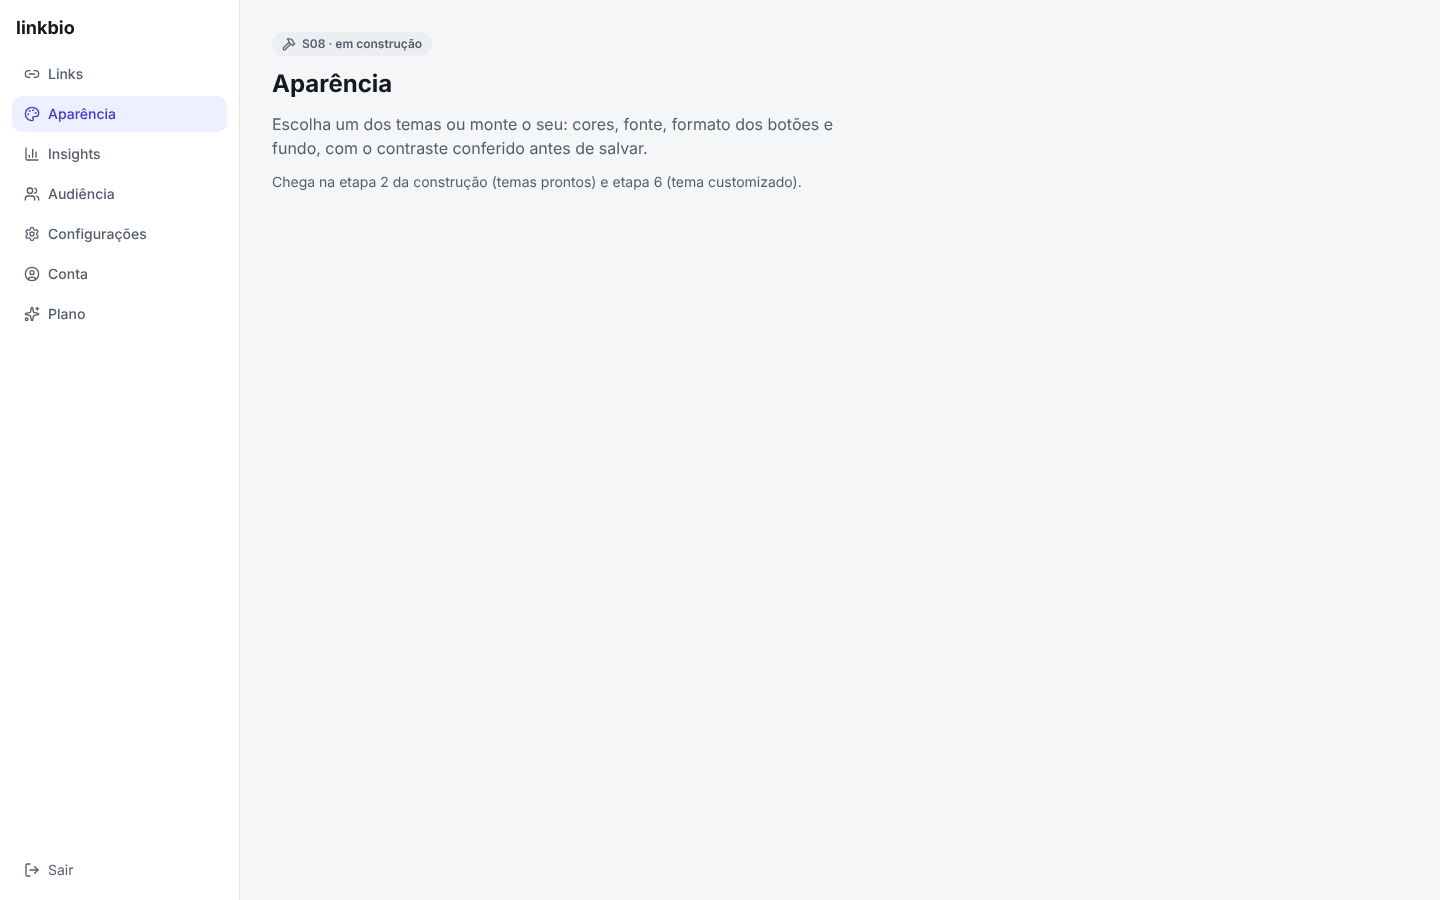
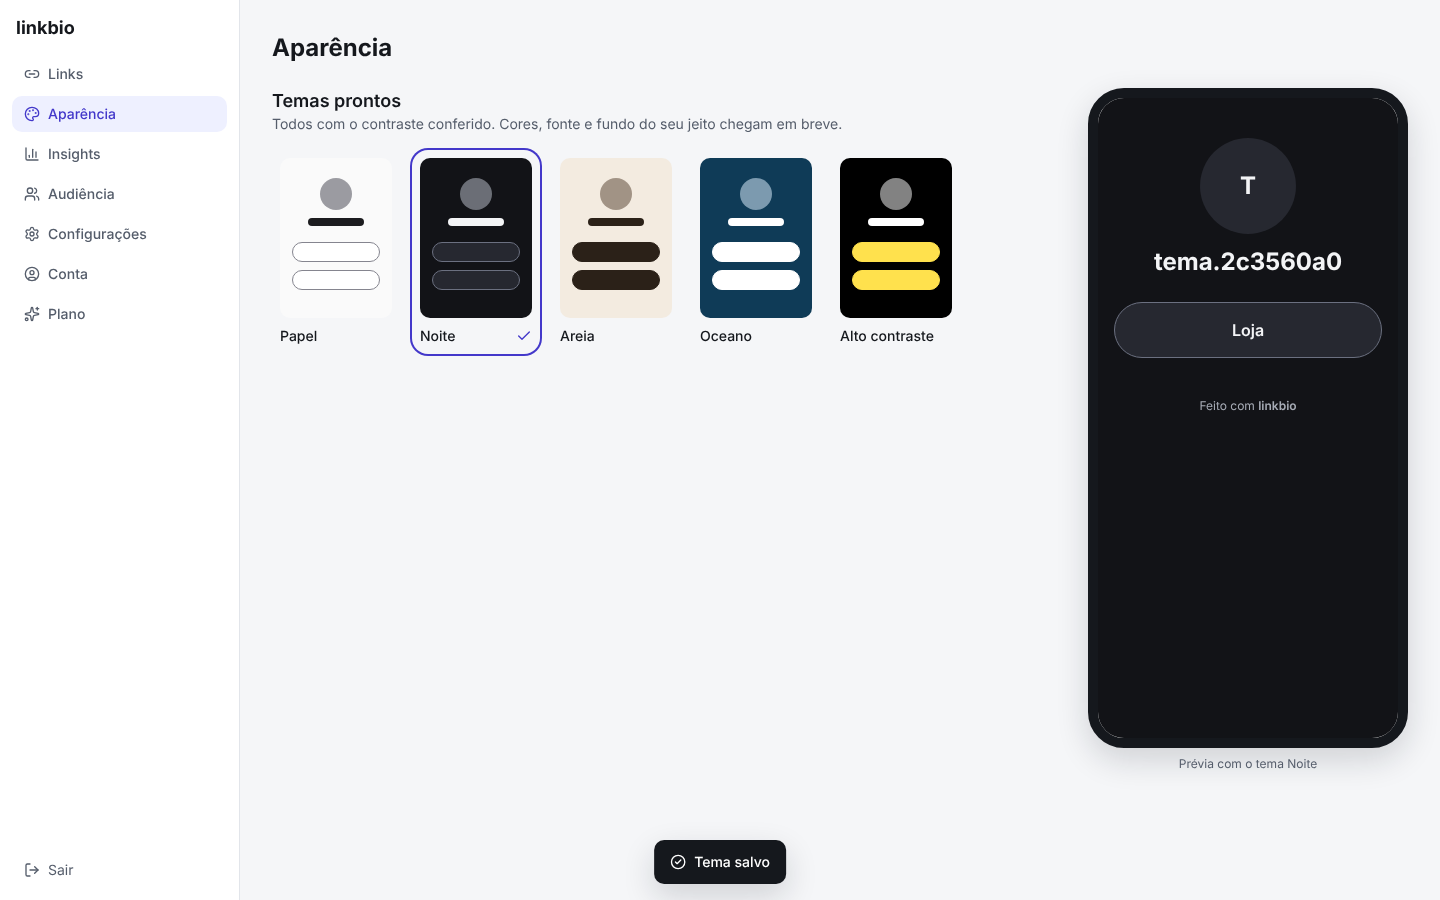
build: S08 aparência com temas prontos
Galeria com os cinco temas dos tokens, prévia que muda na hora e volta
atrás se o servidor não confirmar. Só o dono troca o tema (testado com
segunda conta). F03: 4 casos, inclusive axe da página pública em cada tema.

Claude-Session: https://claude.ai/code/session_01VU2uHG2r7EAoAyA7XPEArP

Changed region(s): [[0.75, 0.0933, 1.0, 0.8711], [0.1875, 0.0311, 0.6875, 0.4044], [0.4375, 0.9333, 0.5625, 0.9956]]

diff --git a/e2e/f03-aparencia.spec.ts b/e2e/f03-aparencia.spec.ts
@@ -1,0 +1,69 @@
+// F03 Criador personaliza a aparência: S08 escolher tema -> ver na prévia -> página pública.
+import { capturar, contaPronta, entrarNoPainel, expect, semRolagemLateral, semViolacoes, sql, test } from "./apoio";
+
+const temaNoBanco = async (perfil: string) => (await sql`select theme from appearances where profile_id = ${perfil}`)[0]?.theme;
+
+test.describe("F03 personaliza a aparência", () => {
+  test("F03-H1 escolher um tema muda a prévia na hora, salva e vale na página pública", async ({ page }) => {
+    const c = await contaPronta("tema", [["Loja", "https://exemplo.com.br"]]);
+    await entrarNoPainel(page, c);
+    await page.getByRole("link", { name: "Aparência" }).click();
+    const noite = page.getByRole("button", { name: /Noite/ });
+    await expect(page.getByRole("button", { name: /Papel/ })).toHaveAttribute("aria-pressed", "true");
+    await semViolacoes(page, "S08");
+    await noite.click();
+    await expect(noite).toHaveAttribute("aria-pressed", "true");
+    await expect(page.getByRole("figure").locator("[data-theme]").first()).toHaveAttribute("data-theme", "noite");
+    await expect(page.getByText("Tema salvo")).toBeVisible();
+    expect(await temaNoBanco(c.perfil)).toBe("noite");
+    await capturar(page, "S08");
+    await page.reload();
+    await expect(page.getByRole("button", { name: /Noite/ })).toHaveAttribute("aria-pressed", "true");
+    await page.goto(`/${c.username}`);
+    await expect(page.locator("[data-theme]").first()).toHaveAttribute("data-theme", "noite");
+    await semViolacoes(page, "S15 noite");
+  });
+
+  test("F03-E1 cada tema pronto passa no axe na página pública (contraste)", async ({ page }) => {
+    const c = await contaPronta("contr", [["Loja", "https://exemplo.com.br"]]);
+    for (const tema of ["papel", "noite", "areia", "oceano", "contraste"]) {
+      await sql`update appearances set theme = ${tema} where profile_id = ${c.perfil}`;
+      await page.goto(`/${c.username}`);
+      await expect(page.locator("[data-theme]").first()).toHaveAttribute("data-theme", tema);
+      await semViolacoes(page, `S15 ${tema}`);
+    }
+  });
+
+  test("F03-E2 só teclado e a 390 px: chega no tema e escolhe com Enter", async ({ page }) => {
+    await page.setViewportSize({ width: 390, height: 844 });
+    const c = await contaPronta("tecla");
+    await entrarNoPainel(page, c);
+    await page.goto("/admin/aparencia");
+    await page.getByRole("button", { name: /Areia/ }).waitFor();
+    for (let i = 0; i < 40; i++) {
+      await page.keyboard.press("Tab");
+      if ((await page.evaluate(() => document.activeElement?.textContent ?? "")).startsWith("Areia")) break;
+    }
+    await page.keyboard.press("Enter");
+    await expect(page.getByText("Tema salvo")).toBeVisible();
+    expect(await temaNoBanco(c.perfil)).toBe("areia");
+    await semRolagemLateral(page);
+    await capturar(page, "S08");
+  });
+
+  test.describe(() => {
+    test.use({ consoleEsperado: [/ERR_INTERNET_DISCONNECTED/] });
+    test("F03-E3 sem rede: o tema volta ao salvo e avisa", async ({ page, context }) => {
+      const c = await contaPronta("offtema");
+      await entrarNoPainel(page, c);
+      await page.goto("/admin/aparencia");
+      await page.getByRole("button", { name: /Oceano/ }).waitFor();
+      await context.setOffline(true);
+      await page.getByRole("button", { name: /Oceano/ }).click();
+      await expect(page.getByText("Sem conexão com o servidor")).toBeVisible();
+      await expect(page.getByRole("button", { name: /Papel/ })).toHaveAttribute("aria-pressed", "true");
+      await context.setOffline(false);
+      expect(await temaNoBanco(c.perfil)).toBe("padrao");
+    });
+  });
+});

diff --git a/src/app/admin/aparencia/galeria.tsx b/src/app/admin/aparencia/galeria.tsx
@@ -1,0 +1,74 @@
+"use client";
+
+import { useState } from "react";
+import { escolherTema } from "@/app/acoes";
+import { PublicPage, type LinkPublico } from "@/components/public/public-page";
+import type { Rede } from "@/components/public/social-row";
+import { PhonePreview } from "@/components/ui/phone-preview";
+import { ThemeCard } from "@/components/ui/theme-card";
+import { useToast } from "@/components/ui/toast";
+import { SEM_CONEXAO, tentar } from "@/lib/acao-segura";
+
+type Props = {
+  temas: ReadonlyArray<{ id: string; nome: string; descricao: string }>;
+  atual: string;
+  titulo: string;
+  bio?: string;
+  avatarUrl?: string;
+  redes: Rede[];
+  redesNoTopo: boolean;
+  links: LinkPublico[];
+  comMarca: boolean;
+};
+
+/** S08: a galeria de temas. A prévia muda na hora; o servidor confirma depois. */
+export function Galeria(props: Props) {
+  const toast = useToast();
+  const [tema, setTema] = useState(props.atual);
+
+  async function escolher(id: string) {
+    if (id === tema) return;
+    const antes = tema;
+    setTema(id);
+    const ok = await tentar(() => escolherTema(id), null);
+    if (ok) return toast("Tema salvo");
+    setTema(antes);
+    toast(ok === null ? SEM_CONEXAO : "Não deu para trocar o tema.", "erro");
+  }
+
+  return (
+    <div className="grid gap-8 lg:grid-cols-[minmax(0,1fr)_auto]">
+      <section aria-labelledby="t-temas" className="flex min-w-0 flex-col gap-4">
+        <div>
+          <h2 id="t-temas" className="text-lg font-semibold text-fg">
+            Temas prontos
+          </h2>
+          <p className="text-sm text-muted">Todos com o contraste conferido. Cores, fonte e fundo do seu jeito chegam em breve.</p>
+        </div>
+        <ul className="flex flex-wrap gap-3">
+          {props.temas.map((t) => (
+            <li key={t.id}>
+              <ThemeCard tema={t.id} nome={t.nome} selecionado={tema === t.id} onSelecionar={() => escolher(t.id)} />
+              <p className="sr-only">{t.descricao}</p>
+            </li>
+          ))}
+        </ul>
+      </section>
+      <div className="lg:sticky lg:top-8 lg:self-start">
+        <PhonePreview rotulo={`Prévia com o tema ${props.temas.find((t) => t.id === tema)?.nome ?? ""}`}>
+          <PublicPage
+            principal={false}
+            tema={tema}
+            titulo={props.titulo}
+            bio={props.bio}
+            avatarUrl={props.avatarUrl}
+            redes={props.redes}
+            redesNoTopo={props.redesNoTopo}
+            links={props.links}
+            comMarca={props.comMarca}
+          />
+        </PhonePreview>
+      </div>
+    </div>
+  );
+}

diff --git a/src/app/admin/aparencia/page.tsx b/src/app/admin/aparencia/page.tsx
@@ -1,9 +1,50 @@
 import type { Metadata } from "next";
-import { EmConstrucao } from "@/components/app/em-construcao";
+import { Suspense } from "react";
+import { TEMAS } from "@/lib/data/aparencia";
+import { urlDaFoto } from "@/lib/data/fotos";
+import { paginaPublica } from "@/lib/data/perfis";
+import { exigirPerfil } from "@/lib/sessao";
+import { Galeria } from "./galeria";
 
 export const metadata: Metadata = { title: "Aparência · linkbio" };
 
-// S08
-export default function Pagina() {
-  return <EmConstrucao tela="S08" titulo="Aparência" descricao="Escolha um dos temas ou monte o seu: cores, fonte, formato dos botões e fundo, com o contraste conferido antes de salvar." etapa="etapa 2 da construção (temas prontos) e etapa 6 (tema customizado)" />;
+// S08 (temas prontos; o tema customizado é da etapa 6)
+export default function Aparencia() {
+  return (
+    <div className="flex flex-col gap-6">
+      <h1 className="text-xl font-bold text-fg">Aparência</h1>
+      <Suspense fallback={<Esqueleto />}>
+        <Dados />
+      </Suspense>
+    </div>
+  );
+}
+
+async function Dados() {
+  const { perfil } = await exigirPerfil();
+  const pagina = await paginaPublica(perfil.username);
+  return (
+    <Galeria
+      temas={TEMAS}
+      atual={pagina?.tema ?? "papel"}
+      titulo={perfil.title || perfil.username}
+      bio={perfil.bio ?? undefined}
+      avatarUrl={urlDaFoto(perfil.avatar_path)}
+      redes={(pagina?.redes ?? []).map((r) => ({ plataforma: r.platform, url: r.url }))}
+      redesNoTopo={perfil.social_position === "top"}
+      links={(pagina?.links ?? []).map((l) => ({ id: l.id, titulo: l.title }))}
+      comMarca={!pagina?.pro}
+    />
+  );
+}
+
+function Esqueleto() {
+  return (
+    <div role="status" className="flex flex-wrap gap-3">
+      <span className="sr-only">Carregando os temas</span>
+      {[0, 1, 2, 3, 4].map((i) => (
+        <div key={i} className="h-48 w-32 animate-pulse rounded-lg bg-surface-2" />
+      ))}
+    </div>
+  );
 }

diff --git a/src/lib/data/aparencia.ts b/src/lib/data/aparencia.ts
@@ -1,0 +1,29 @@
+// Temas prontos da página pública (S08). As cores de cada um moram nos tokens
+// (replica/design/tokens.json, data-theme) e o contraste de todos foi conferido
+// na /replica-design.
+import { sql } from "drizzle-orm";
+import { donoDoPerfil } from "@/lib/authz";
+import { db } from "@/lib/db";
+import { appearances } from "@/lib/db/schema";
+
+export const TEMAS = [
+  { id: "papel", nome: "Papel", descricao: "claro e neutro" },
+  { id: "noite", nome: "Noite", descricao: "escuro, botões em cinza" },
+  { id: "areia", nome: "Areia", descricao: "bege com botões cheios" },
+  { id: "oceano", nome: "Oceano", descricao: "azul profundo" },
+  { id: "contraste", nome: "Alto contraste", descricao: "preto e branco, para ler melhor" },
+] as const;
+
+export type Tema = (typeof TEMAS)[number]["id"];
+export const IDS_DOS_TEMAS = TEMAS.map((t) => t.id) as [Tema, ...Tema[]];
+
+/** Grava o tema do perfil (só do dono). Não mexe no tema customizado, que é da etapa 6. */
+export async function definirTema(accountId: string, profileId: string, tema: Tema): Promise<boolean> {
+  const conn = await db();
+  if (!(await donoDoPerfil(conn, accountId, profileId))) return false;
+  await conn
+    .insert(appearances)
+    .values({ profileId, theme: tema })
+    .onConflictDoUpdate({ target: appearances.profileId, set: { theme: tema, updatedAt: sql`now()` } });
+  return true;
+}

diff --git a/src/app/acoes.ts b/src/app/acoes.ts
@@ -8,6 +8,7 @@ import { z } from "zod";
 import { cancelarAssinatura, iniciarAssinatura, type Forma } from "@/lib/billing";
 import { documentoValido } from "@/lib/billing/cpf";
 import { criarConta, entrar, pedirNovaSenha, reenviarConfirmacao, sair, trocarSenha, urlLoginGoogle } from "@/lib/data/auth";
+import { definirTema, IDS_DOS_TEMAS } from "@/lib/data/aparencia";
 import { excluirConta } from "@/lib/data/conta";
 import { definirFoto } from "@/lib/data/fotos";
 import { dentroDosLimites } from "@/lib/data/limites";
@@ -260,6 +261,16 @@ export async function salvarFoto(caminho: unknown): Promise<boolean> {
   const { sessao, perfil } = await exigirPerfil();
   if (caminho !== null && (typeof caminho !== "string" || caminho.length > 200)) return false;
   const ok = await definirFoto(sessao.userId, perfil.id, caminho);
+  refresh();
+  return ok;
+}
+
+/** S08: troca o tema da página. */
+export async function escolherTema(tema: unknown): Promise<boolean> {
+  const { sessao, perfil } = await exigirPerfil();
+  const escolhido = z.enum(IDS_DOS_TEMAS).safeParse(tema);
+  if (!escolhido.success) return false;
+  const ok = await definirTema(sessao.userId, perfil.id, escolhido.data);
   refresh();
   return ok;
 }

diff --git a/tests/backend/authz.test.ts b/tests/backend/authz.test.ts
@@ -3,6 +3,7 @@
 import assert from "node:assert/strict";
 import { after, before, test } from "node:test";
 import { fecharBanco } from "@/lib/db";
+import { definirTema } from "@/lib/data/aparencia";
 import { totais } from "@/lib/data/eventos";
 import { adicionarLink, alternarLink, editarLink, excluirLink, listarLinks, reordenarLinks } from "@/lib/data/links";
 import { atualizarCabecalho, criarPerfil, perfilDaConta } from "@/lib/data/perfis";
@@ -56,6 +57,11 @@ test("outra conta não muda o cabeçalho nem vê os insights", async () => {
   assert.equal(await atualizarCabecalho(bia.id, perfilAna, { titulo: "invadido", bio: "" }), false);
   assert.equal(await totais(bia.id, perfilAna), null);
   assert.ok(await totais(ana.id, perfilAna));
+});
+
+test("outra conta não troca o tema", async () => {
+  assert.equal(await definirTema(bia.id, perfilAna, "noite"), false);
+  assert.equal(await definirTema(ana.id, perfilAna, "areia"), true);
 });
 
 test("o dono consegue tudo", async () => {
